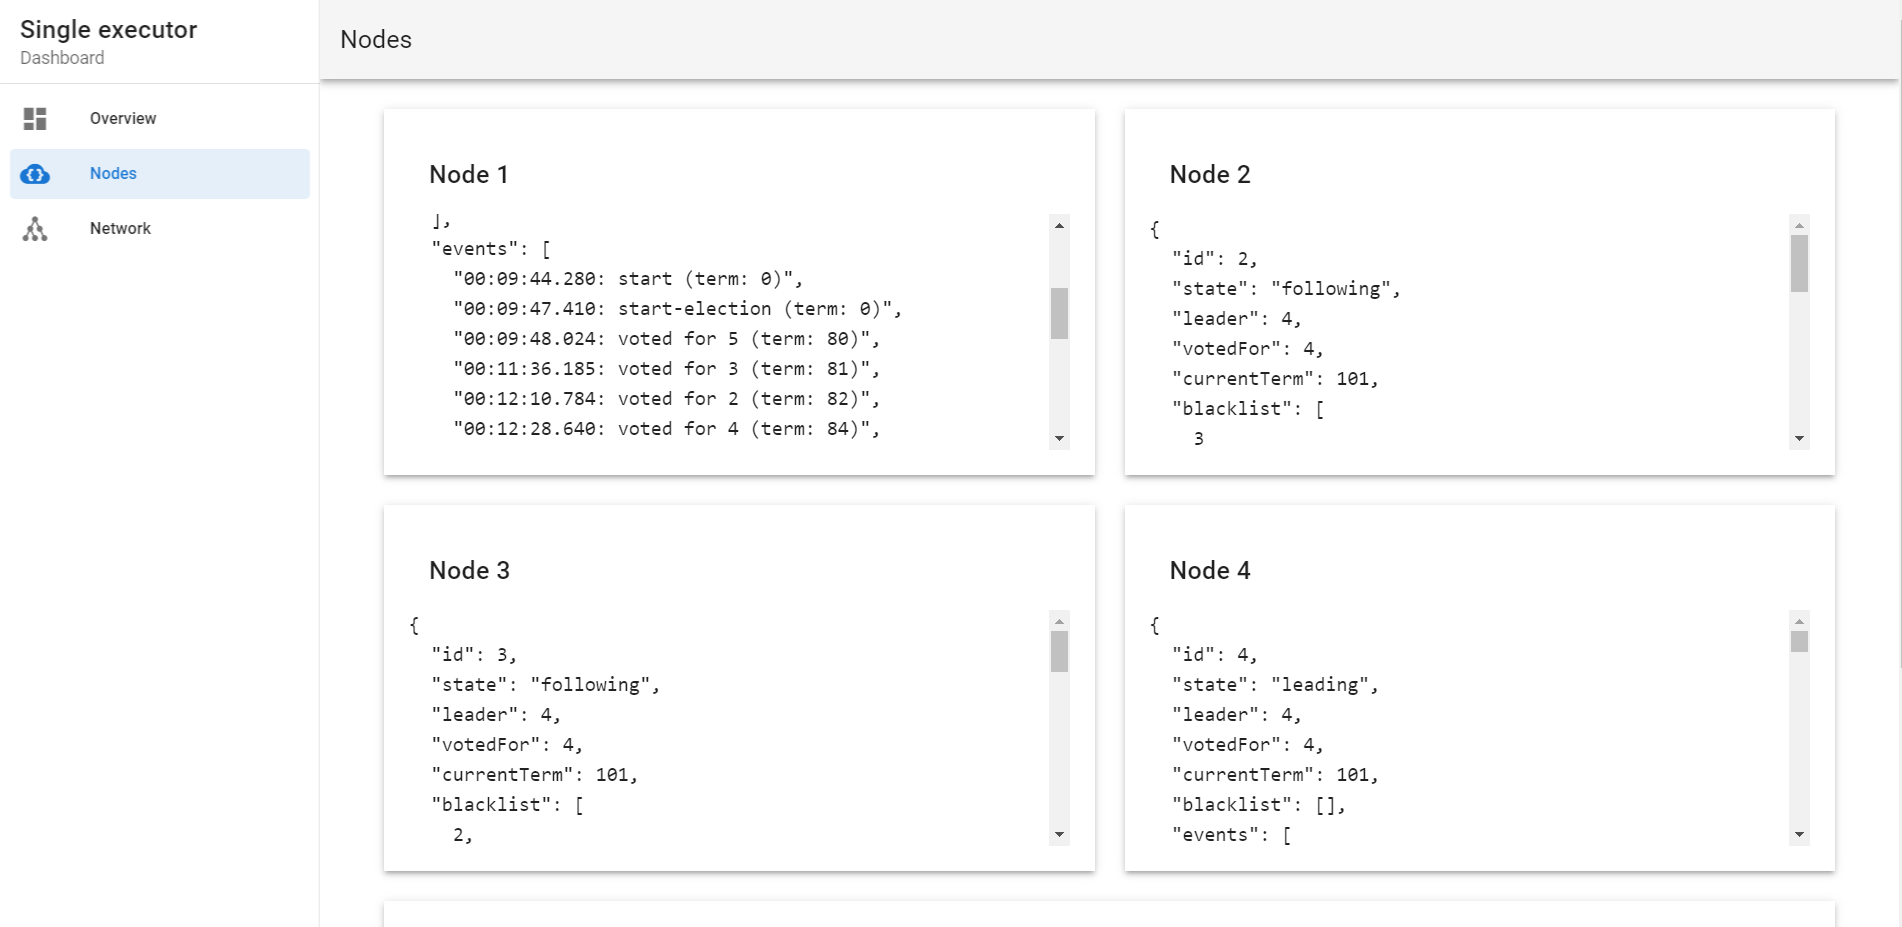
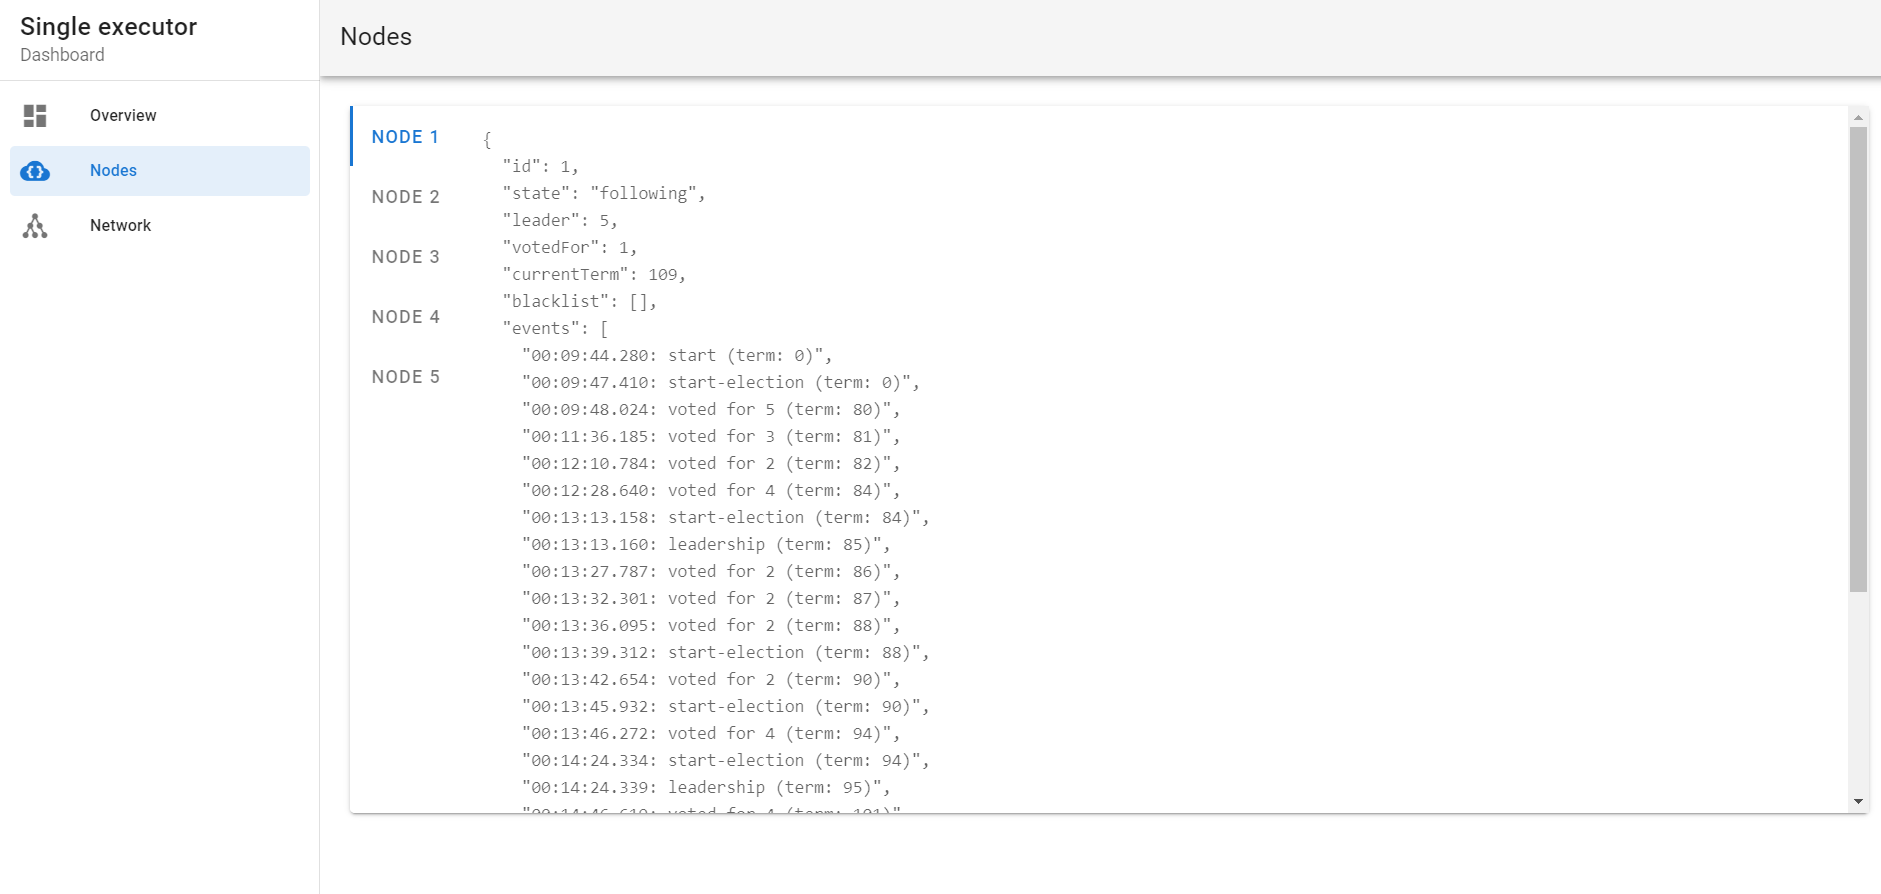
More minor styling improvements and TS fixes

diff --git a/web/dashboard/src/components/Nodes.vue b/web/dashboard/src/components/Nodes.vue
@@ -1,14 +1,22 @@
 <template>
-  <v-container>
+  <v-container fluid>
     <v-row justify="center">
-      <v-col v-for="(node, id) in nodes" :key="id">
-        <v-sheet elevation="3" class="pa-5">
-          <v-card-title>
-            Node {{ id }}
-          </v-card-title>
-          <pre v-if="node !== null" class="node-state">{{ node }}</pre>
-          <pre v-else>Cannot retrieve data. Node down?</pre>
-        </v-sheet>
+      <v-col>
+        <v-card>
+          <v-tabs vertical>
+            <v-tab v-for="(node, id) in nodes" :key="id">
+              Node {{ id }}
+            </v-tab>
+
+            <v-tab-item v-for="(node, id) in nodes" :key="id">
+              <v-card flat>
+                <v-card-text class="node-state-container">
+                  <pre>{{ node }}</pre>
+                </v-card-text>
+              </v-card>
+            </v-tab-item>
+          </v-tabs>
+        </v-card>
       </v-col>
     </v-row>
   </v-container>
@@ -26,8 +34,7 @@ export default class Nodes extends Vue {
 </script>
 
 <style scoped lang="scss">
-.node-state {
-  overflow: auto;
-  max-height: 25vh;
-}
+  .node-state-container {
+    max-height: 75vh; overflow: auto
+  }
 </style>

diff --git a/web/dashboard/src/components/Network.vue b/web/dashboard/src/components/Network.vue
@@ -45,7 +45,7 @@
 <script lang="ts">
 import {Component, Vue} from 'vue-property-decorator';
 import {mapGetters} from "vuex";
-import {NodeId, NodesData} from "@/plugins/store";
+import {NodeId, NodesData, NodeData} from "@/plugins/store";
 import D3Network from 'vue-d3-network'
 import axios from "axios";
 
@@ -143,7 +143,7 @@ export default class Network extends Vue {
     let currentId;
     let nodes = this.$store.getters.nodes;
 
-    for (const [id, nodeData] of Object.entries(nodes)) {
+    for (const [id, nodeData] of Object.entries<NodeData>(nodes)) {
       let nodeIndex = this.nodeData.findIndex((n : any) => n.id === id);
       let node;
 
